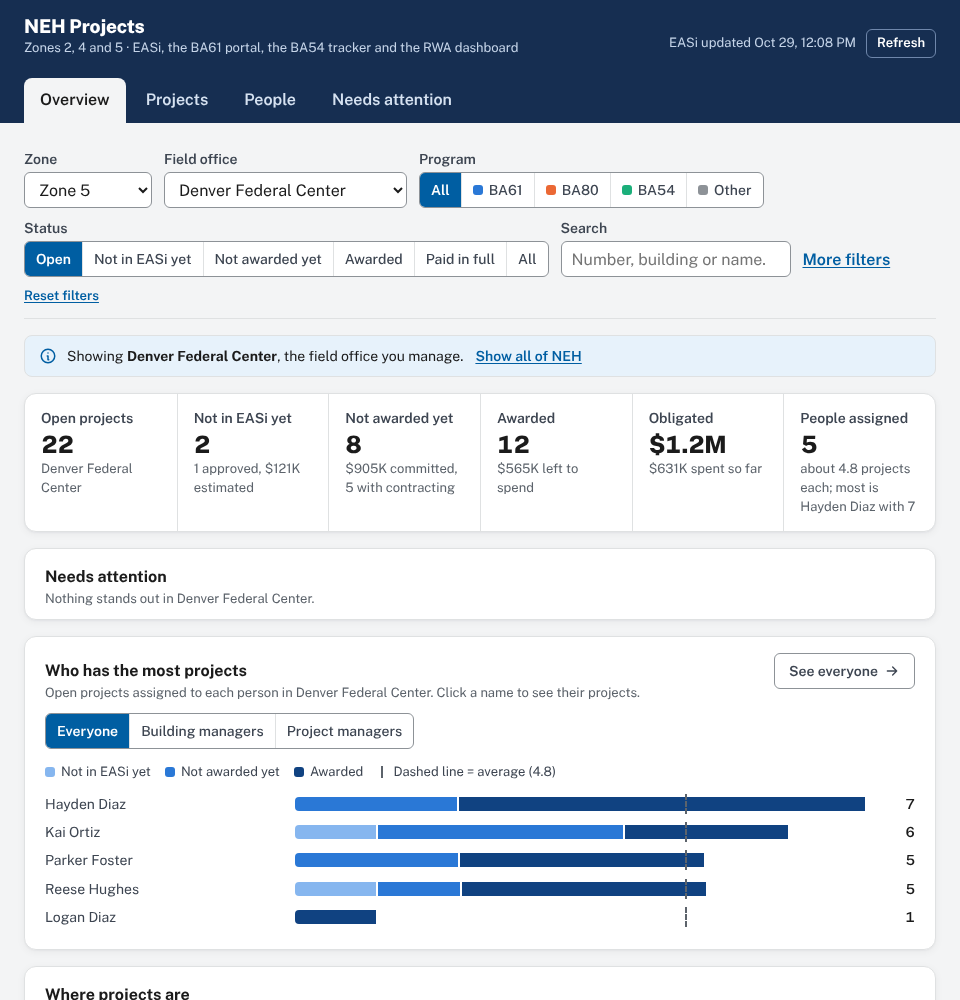
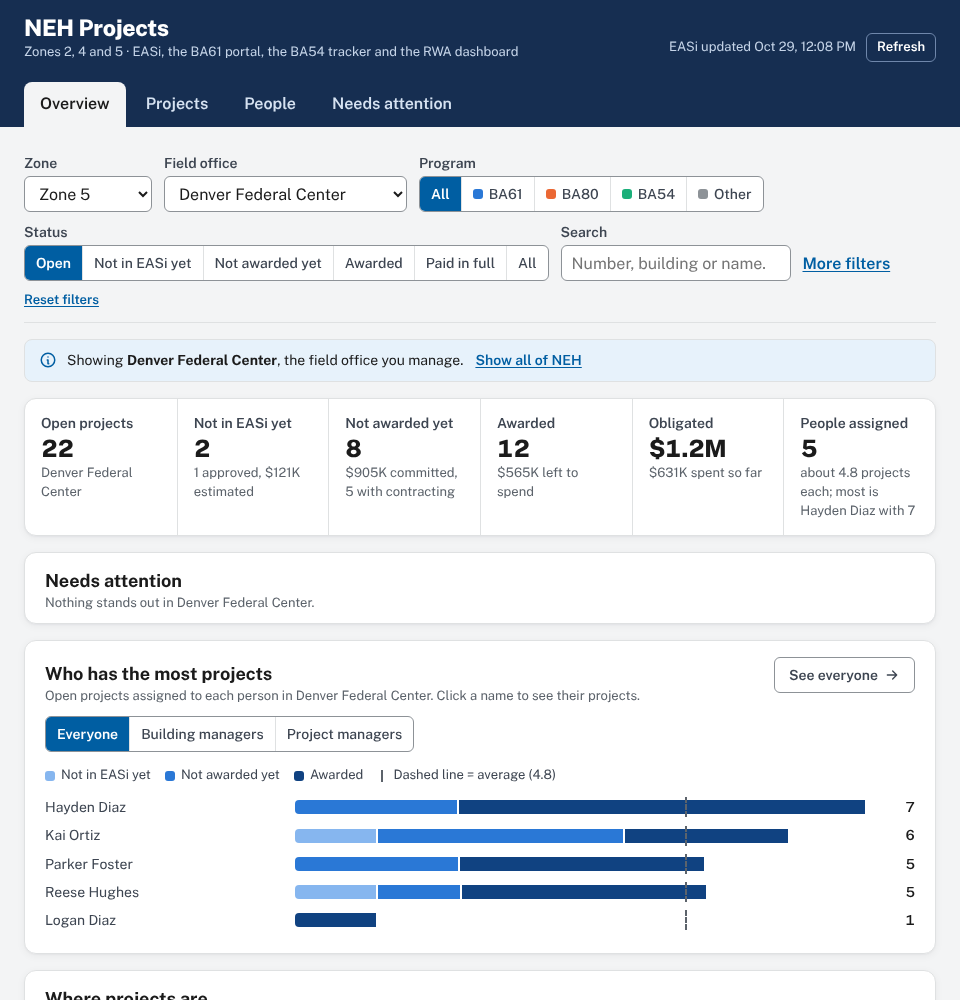
Follow the money after award; design audit and polish
Spending after award (no Kahua)
- The history now records each awarded PR's spent amount and the day it
  last changed. The Projects table shows % spent, the panel shows when
  spending last moved, and Needs attention lists awarded projects with
  no new payment in 90+ days (stalled, or done without closeout).

Design audit (Impeccable plug-in) and fixes
- Audit: 15/20, no P0. Fixed: the project panel now keeps keyboard
  focus (the page behind is inert, Tab cycles, Escape closes); the views
  are a navigation landmark with aria-current instead of a half-built
  tab widget; heading sizes step clearly (14/16/18/23); the current
  office row is a tint, not a colored edge; selection, checkbox, link
  underline and scrollbar colors follow the palette; header colors are
  tokens; reduced-motion respected; headings and paragraphs wrap evenly.
- The detector reports no findings on desktop or phone afterwards; text
  contrast passes in light and dark.

Claude-Session: https://claude.ai/code/session_01RMxVjbo95iv27hvqChW3bh

diff --git a/webapp/Styles.html b/webapp/Styles.html
@@ -23,6 +23,8 @@
   --primary-soft: #e7f2fb;
   --navy: #162e51;
   --navy-2: #1f3d68;
+  --on-navy: #d6e2f1;      /* text on the navy header */
+  --on-navy-2: #c5d4e8;
   --warning: #7a5600;
   --warning-soft: #fdf2d0;
   --success: #00703c;
@@ -72,7 +74,12 @@
 
 * { box-sizing: border-box; }
 html, body { margin: 0; padding: 0; }
-body { font-family: var(--font); font-size: 16px; line-height: 1.45; color: var(--ink); background: var(--page); -webkit-font-smoothing: antialiased; }
+body { font-family: var(--font); font-size: 16px; line-height: 1.45; color: var(--ink); background: var(--page); -webkit-font-smoothing: antialiased; accent-color: var(--primary); }
+::selection { background: var(--primary-soft); color: var(--ink); }
+a { text-underline-offset: 2px; }
+h1, h2, h3 { text-wrap: balance; }
+p, li, dd { text-wrap: pretty; }
+.table-wrap { scrollbar-color: var(--line-strong) transparent; }
 a { color: var(--primary); }
 a:hover { color: var(--primary-hover); }
 button, input, select { font: inherit; color: inherit; }
@@ -93,6 +100,10 @@ input[type="checkbox"] { accent-color: var(--primary); width: 16px; height: 16px
 .boot, .state { display: flex; align-items: center; justify-content: center; gap: 12px; min-height: 60vh; color: var(--ink-3); flex-direction: column; text-align: center; padding: 24px; }
 .state h2 { color: var(--ink); margin: 0; font-size: 20px; }
 .state p { max-width: 560px; margin: 0; }
+@media (prefers-reduced-motion: reduce) {
+  .spinner { animation-duration: 2.4s; }
+  tr.group-row .caret, .attention-item, .hbar { transition: none; }
+}
 .spinner { width: 22px; height: 22px; border-radius: 50%; border: 3px solid var(--line); border-top-color: var(--primary); animation: spin .8s linear infinite; display: inline-block; }
 @keyframes spin { to { transform: rotate(360deg); } }
 
@@ -100,13 +111,13 @@ input[type="checkbox"] { accent-color: var(--primary); width: 16px; height: 16px
 .topbar { background: var(--navy); color: #fff; }
 .topbar-inner { max-width: 1480px; margin: 0 auto; padding: 14px 24px 0; display: flex; flex-wrap: wrap; align-items: flex-end; gap: 8px 24px; }
 .brand { display: flex; flex-direction: column; padding-bottom: 12px; margin-right: auto; }
-.brand-title { font-size: 19px; font-weight: 800; letter-spacing: -.01em; margin: 0; line-height: 1.3; }
-.brand-sub { font-size: 13px; color: #c5d4e8; }
+.brand-title { font-size: 23px; font-weight: 800; letter-spacing: -.015em; margin: 0; line-height: 1.25; }
+.brand-sub { font-size: 13px; color: var(--on-navy-2); }
 .tabs { display: flex; gap: 4px; }
-.tab { background: transparent; border: 0; color: #d6e2f1; padding: 10px 16px 12px; font-weight: 600; cursor: pointer; border-radius: 8px 8px 0 0; }
+.tab { background: transparent; border: 0; color: var(--on-navy); padding: 10px 16px 12px; font-weight: 600; cursor: pointer; border-radius: 8px 8px 0 0; }
 .tab:hover { color: #fff; background: var(--navy-2); }
-.tab[aria-selected="true"] { background: var(--page); color: var(--ink); }
-.freshness { display: flex; align-items: center; gap: 10px; font-size: 13px; color: #c5d4e8; padding-bottom: 12px; }
+.tab[aria-current="page"] { background: var(--page); color: var(--ink); }
+.freshness { display: flex; align-items: center; gap: 10px; font-size: 13px; color: var(--on-navy-2); padding-bottom: 12px; }
 .btn-on-dark { background: transparent; border: 1px solid #6f87ab; color: #fff; border-radius: 6px; padding: 4px 10px; cursor: pointer; font-size: 13px; font-weight: 600; }
 .btn-on-dark:hover { background: var(--navy-2); }
 .btn-on-dark[disabled] { opacity: .6; cursor: default; }
@@ -115,7 +126,7 @@ input[type="checkbox"] { accent-color: var(--primary); width: 16px; height: 16px
 main { max-width: 1480px; margin: 0 auto; padding: 16px 24px 48px; }
 .card { background: var(--surface); border: 1px solid var(--line); border-radius: var(--radius); box-shadow: var(--shadow); }
 .card-pad { padding: 18px 20px; }
-.card h2 { font-size: 16px; margin: 0; }
+.card h2 { font-size: 18px; margin: 0; line-height: 1.3; }
 .card-head { display: flex; align-items: baseline; justify-content: space-between; gap: 12px; flex-wrap: wrap; padding: 16px 20px 10px; }
 .card-head p { margin: 2px 0 0; color: var(--ink-3); font-size: 13px; }
 .grid { display: grid; gap: 16px; }
@@ -232,7 +243,7 @@ tr.group-row .caret { display: inline-flex; width: 20px; transition: transform .
 tr.group-row.collapsed .caret { transform: rotate(-90deg); }
 tr.total-row td { font-weight: 700; background: var(--surface-2); border-bottom: 0; }
 tbody tr.current td, tbody tr.current:hover td { background: var(--primary-soft); }
-tbody tr.current td:first-child { box-shadow: inset 3px 0 0 var(--primary); }
+tbody tr.current td:first-child strong { color: var(--primary-hover); }
 td.title-cell { min-width: 230px; max-width: 300px; }
 td .sub { font-size: 12.5px; color: var(--ink-3); margin-top: 2px; }
 td.title-cell .sub { display: flex; flex-wrap: wrap; gap: 2px 8px; align-items: center; }
@@ -261,7 +272,7 @@ td.title-cell .t { display: -webkit-box; -webkit-line-clamp: 2; -webkit-box-orie
 .drawer-backdrop { position: fixed; inset: 0; background: rgba(10, 16, 28, .45); z-index: 50; display: flex; justify-content: flex-end; }
 .drawer { width: min(640px, 100%); height: 100%; background: var(--surface); box-shadow: var(--shadow-lg); overflow-y: auto; padding: 20px 24px 40px; }
 .drawer-head { display: flex; justify-content: space-between; gap: 12px; align-items: flex-start; }
-.drawer h2 { margin: 4px 0 6px; font-size: 19px; line-height: 1.3; }
+.drawer h2 { margin: 4px 0 6px; font-size: 20px; line-height: 1.3; }
 .close-btn { border: 1px solid var(--line-strong); background: var(--surface); width: 36px; height: 36px; border-radius: 8px; cursor: pointer; flex: none; display: inline-flex; align-items: center; justify-content: center; color: var(--ink-2); }
 .close-btn:hover { color: var(--ink); border-color: var(--field-border); }
 .pr-link .icon { width: 14px; height: 14px; margin-left: 4px; }
@@ -292,13 +303,13 @@ tr.group-more td { padding: 6px 9px 12px; }
 .attention-item { display: flex; align-items: baseline; gap: 10px; width: 100%; text-align: left; border: 0; background: transparent; font: inherit; color: var(--ink); padding: 6px 8px; margin-left: -8px; border-radius: 6px; cursor: pointer; }
 .attention-item:hover { background: var(--surface-2); color: var(--primary); }
 .attention-item .count { min-width: 44px; text-align: right; font-weight: 700; font-variant-numeric: tabular-nums; color: var(--warning); }
-.group-heading { font-size: 16px; margin: 8px 0 -4px; }
+.group-heading { font-size: 18px; margin: 12px 0 -6px; }
 .attention-check h3 { font-size: 16px; margin: 0; display: flex; align-items: center; gap: 8px; }
 .count-pill { font-size: 12px; font-weight: 700; background: var(--warning-soft); color: var(--warning); border-radius: 999px; padding: 1px 8px; }
 .attention-note { font-size: 13px; color: var(--warning); font-weight: 600; margin-top: 2px; }
 .footnote { font-size: 13px; color: var(--ink-3); margin-top: 20px; line-height: 1.6; }
 .sources { margin-top: 24px; padding-top: 16px; border-top: 1px solid var(--line); }
-.sources h2 { font-size: 15px; margin: 0 0 8px; }
+.sources h2 { font-size: 18px; margin: 0 0 10px; }
 .sources-table { font-size: 14px; background: var(--surface); border: 1px solid var(--line); border-radius: var(--radius-sm); }
 .sources-table th { background: var(--surface-2); }
 .source-error { color: var(--warning); font-weight: 600; margin-top: 2px; }

diff --git a/webapp/JsApp.html b/webapp/JsApp.html
@@ -36,6 +36,7 @@ var PROJECT_CSV = [
   ['Building', function (p) { return p.buildings.join(' '); }], ['Building names', function (p) { return p.buildingNames.join('; '); }],
   ['Assigned to', function (p) { return peopleNames(p.lead); }], ['Role', function (p) { return p.lead.map(function (e) { return teamLabel(teamOf(e), true); }).join('; '); }], ['Org code', function (p) { return p.lead.map(orgOf).join('; '); }], ['COR', function (p) { return peopleNames(p.cor); }], ['Submitter', function (p) { return peopleNames(p.requestor); }],
   ['Planned in', function (p) { return p.sourceLabel || 'EASi'; }], ['Estimated cost (not in EASi yet)', function (p) { return isPlanned(p) ? p.estimate : ''; }],
+  ['% spent', function (p) { var x = spentPct(p); return x === null ? '' : x; }], ['Spending last changed', function (p) { var a = paymentAge(p); return a ? (a.known ? '' : 'by ') + a.since : ''; }],
   ['Committed', function (p) { return p.committed; }], ['Obligated', function (p) { return p.obligated; }], ['Expended', function (p) { return p.expended; }], ['Left to spend', function (p) { return p.remaining; }],
   ['PR fiscal year', function (p) { return p.fy || ''; }], ['Awarded', function (p) { return p.executed; }], ['Vendor', function (p) { return p.vendor; }], ['Award number', function (p) { return p.awardNumber; }],
   ['Acquisition status', function (p) { return p.acquisitionStatus; }], ['PR status', function (p) { return p.prStatus; }],
@@ -233,8 +234,9 @@ function topBar() {
   var d = S.data;
   var refreshBtn = h('button', { class: 'btn-on-dark', type: 'button', title: 'Read EASi and the other source sheets again (takes about a minute)' }, 'Refresh');
   refreshBtn.addEventListener('click', function () { refreshBtn.disabled = true; refreshBtn.textContent = 'Refreshing…'; load(true); });
-  var tabs = h('div', { class: 'tabs', role: 'tablist', 'aria-label': 'Views' }, VIEWS.map(function (v) {
-    return h('button', { class: 'tab', role: 'tab', type: 'button', 'aria-selected': String(S.view === v.key), onClick: function () { go(v.key); } }, v.label);
+  // The views are pages of one site, so they are navigation (aria-current), not an ARIA tab widget.
+  var tabs = h('nav', { class: 'tabs', 'aria-label': 'Views' }, VIEWS.map(function (v) {
+    return h('button', { class: 'tab', type: 'button', 'aria-current': S.view === v.key ? 'page' : null, onClick: function () { go(v.key); } }, v.label);
   }));
   return h('header', { class: 'topbar' }, h('div', { class: 'topbar-inner' },
     h('div', { class: 'brand' },
@@ -800,7 +802,11 @@ function projectRow(p, cols) {
       return h('td', { class: 'num', title: fmtMoney(p.committed) + ' committed; ' + fmtMoney(plan.planned) + ' planned in ' + andList(uniqueLabels(p.plans)) + (plan.ratio !== null ? ' (' + plan.label + ')' : '') },
         fmtMoneyShort(p.committed), h('div', { class: 'sub' + (off ? ' off-plan' : '') }, plan.key === 'noamount' ? 'in a plan' : 'plan ' + fmtMoneyShort(plan.planned) + (off ? ' (' + plan.label.replace(' vs. plan', '') + ')' : '')));
     },
-    remaining: function () { return h('td', { class: 'num', title: p.remaining ? fmtMoney(p.remaining) : null }, p.remaining ? fmtMoneyShort(p.remaining) : '–'); },
+    remaining: function () {
+      var pct = spentPct(p);
+      return h('td', { class: 'num', title: p.remaining ? fmtMoney(p.remaining) + ' of ' + fmtMoney(p.obligated) + ' obligated is left' : null },
+        p.remaining ? fmtMoneyShort(p.remaining) : '–', pct !== null && p.stage === 'awarded' ? h('div', { class: 'sub' }, pct + '% spent') : null);
+    },
     executed: function () {
       if (!p.vendor && !p.executed) return h('td', { class: 'muted' }, '–');
       return h('td', { class: 'award-cell' }, h('div', { class: 't1', title: p.vendor || null }, p.vendor || 'Vendor not listed'), p.executed ? h('div', { class: 'sub' }, fmtDate(p.executed)) : null);
@@ -947,6 +953,7 @@ function openDrawer(p) {
       itemIf('Award status', p.awardStatus),
       p.reviewers.length ? item('Waiting on', people(p.reviewers)) : null,
       itemIf('Award number', p.awardNumber),
+      spentPct(p) !== null ? item('Spent so far', spentPct(p) + '% of ' + fmtMoney(p.obligated) + (paymentAge(p) ? '\n' + (p.expended > 0 ? (paymentAge(p).known ? 'Last new payment seen ' : 'No new payment since at least ') : 'Nothing paid since the award, ') + fmtDate(paymentAge(p).since) : '')) : null,
       itemIf('Awarded', fmtDate(p.executed)),
       itemIf('Vendor', p.vendor),
       itemIf('Award type', p.awardType),
@@ -980,12 +987,23 @@ function openDrawer(p) {
   drawer.querySelectorAll('dd').forEach(function (dd) { dd.style.whiteSpace = 'pre-line'; });
   var backdrop = h('div', { class: 'drawer-backdrop' }, drawer);
   var opener = document.activeElement;
-  var shut = function () { backdrop.remove(); document.removeEventListener('keydown', onKey); if (opener && opener.focus) opener.focus(); };
-  var onKey = function (e) { if (e.key === 'Escape') shut(); };
+  // A modal panel: the page behind it is inert, and Tab cycles inside the panel.
+  var app = document.getElementById('app');
+  var shut = function () { backdrop.remove(); app.inert = false; document.removeEventListener('keydown', onKey); if (opener && opener.focus) opener.focus(); };
+  var onKey = function (e) {
+    if (e.key === 'Escape') { shut(); return; }
+    if (e.key !== 'Tab') return;
+    var stops = [].slice.call(drawer.querySelectorAll('a[href], button:not([disabled]), [tabindex="0"]'));
+    if (!stops.length) return;
+    var first = stops[0], last = stops[stops.length - 1];
+    if (e.shiftKey && document.activeElement === first) { e.preventDefault(); last.focus(); }
+    else if (!e.shiftKey && document.activeElement === last) { e.preventDefault(); first.focus(); }
+  };
   close.addEventListener('click', shut);
   backdrop.addEventListener('click', function (e) { if (e.target === backdrop) shut(); });
   document.addEventListener('keydown', onKey);
   document.body.appendChild(backdrop);
+  app.inert = true;
   close.focus();
 }
 

diff --git a/webapp/JsAttention.html b/webapp/JsAttention.html
@@ -49,6 +49,18 @@ var ATTENTION_CHECKS = [
     sortKey: function (p) { return p.executed; }
   },
   {
+    key: 'stalled', group: 'time', title: 'Awarded, no new payments in 90+ days',
+    why: 'Pegasys shows no new spending for three months. The work may have stalled, or finished without being closed out. (Projects awarded over a year ago with nothing paid are listed under Money.)',
+    test: function (p) {
+      if (p.stage !== 'awarded') return '';
+      var a = paymentAge(p);
+      if (!a || a.days < 90) return '';
+      if (p.expended <= 0) return a.days >= 365 ? '' : 'Awarded ' + fmtDate(a.since) + ', nothing paid yet (' + plural(a.days, 'day') + ')';
+      return (a.known ? 'No new payment since ' + fmtDate(a.since) + ' (' + plural(a.days, 'day') + ')' : 'No new payment for ' + a.days + '+ days') + ', ' + spentPct(p) + '% spent';
+    },
+    sortKey: function (p) { return p.spentSince; }
+  },
+  {
     key: 'pastTarget', group: 'time', title: 'Past its planned date, still no PR',
     why: 'The plan said this would be committed (BA61 portal) or routed (BA54 tracker) by now, and EASi has no PR for it.',
     test: function (p) { return isPlanned(p) && p.dueBy && p.dueBy < snapshotDay() ? p.dueWhat + ' was ' + fmtDate(p.dueBy) : ''; },

diff --git a/dev/test.js b/dev/test.js
@@ -456,6 +456,17 @@ test('stage history: days in stage, changes between refreshes, plans before thei
   later.prs.push(carrier);
   ctx.updateHistory_(later, next, '2099-01-17');
   assert.ok(carrier.plans[0].history && carrier.plans[0].history[0][0] === plan.stage);
+  // Spending after award: nothing paid runs from the award; a new payment restarts the clock.
+  const unpaid = d.prs.filter((p) => !p.source && p.stage === 'awarded' && p.expended === 0 && p.executed)[0];
+  if (unpaid) assert.ok(unpaid.spentSince === unpaid.executed && unpaid.spentKnown);
+  const paying = later.prs.filter((p) => !p.source && p.stage === 'awarded' && p.expended > 0)[0];
+  assert.ok(paying.spentSince && !paying.spentKnown, 'first day: spending at least since today');
+  paying.expended += 1000;
+  ctx.updateHistory_(later, next, '2099-02-01');
+  assert.strictEqual(paying.spentSince, '2099-02-01');
+  assert.strictEqual(paying.spentKnown, true);
+  ctx.updateHistory_(later, next, '2099-03-01');
+  assert.strictEqual(paying.spentSince, '2099-02-01', 'no change, the date stays');
   // Long-gone projects are forgotten.
   const gone = ctx.updateHistory_({ prs: [] }, next, '2101-06-01');
   assert.strictEqual(Object.keys(gone.items).length, 0);

diff --git a/webapp/JsCore.html b/webapp/JsCore.html
@@ -502,6 +502,18 @@ function stageAge(p) {
   return { days: daysBetween(p.since), known: !!p.sinceKnown, since: p.since };
 }
 
+/** Share of the obligation Pegasys shows spent (0-100), or null before award. */
+function spentPct(p) {
+  if (isPlanned(p) || !(p.stage === 'awarded' || p.stage === 'expended') || p.obligated <= 0) return null;
+  return Math.min(100, Math.round(p.expended / p.obligated * 100));
+}
+
+/** Days since an awarded PR's spending last changed (since its award when nothing is spent): { days, known, since } or null. */
+function paymentAge(p) {
+  if (!p.spentSince) return null;
+  return { days: daysBetween(p.spentSince), known: !!p.spentKnown, since: p.spentSince };
+}
+
 /** "27 days" (known) or "40+ days" (in this stage at least since tracking began); '' when it says nothing. */
 function stageAgeText(p) {
   var a = stageAge(p);

diff --git a/README.md b/README.md
@@ -28,7 +28,7 @@ Four tabs, all following the same filters.
 
 **People**: everyone ranked by how many projects they have, counted by person assigned (default), the building's building manager, contracting officer or contract specialist; with not in EASi / not awarded / awarded, BA61/80/54 counts, dollars and their oldest open fiscal year. Split by field office if you like. Click a person to see their projects.
 
-**Needs attention**: checks over the data, grouped as *Money* (RWA funds closing within 120 days with no award; committed more than 25% over the plan; awarded over a year ago with nothing paid), *Taking long* (past the plan's own commitment month (BA61 portal) or PR routing month (BA54 tracker) with no PR; approved 60+ days ago with no PR; 60+ days as a draft PR or 30+ days in review or waiting for a contract specialist) and *Fix in the source* (cancelled or denied in the portal but has a PR; nobody assigned; a person named with no email found; a BA54 row with no PCN; a PR with no building in EASi). Each says why it matters, lists the most pressing first, and opens all of them in Projects.
+**Needs attention**: checks over the data, grouped as *Money* (RWA funds closing within 120 days with no award; committed more than 25% over the plan; awarded over a year ago with nothing paid), *Taking long* (awarded with no new payment in 90+ days; past the plan's own commitment month (BA61 portal) or PR routing month (BA54 tracker) with no PR; approved 60+ days ago with no PR; 60+ days as a draft PR or 30+ days in review or waiting for a contract specialist) and *Fix in the source* (cancelled or denied in the portal but has a PR; nobody assigned; a person named with no email found; a BA54 row with no PCN; a PR with no building in EASi). Each says why it matters, lists the most pressing first, and opens all of them in Projects.
 
 ![Needs attention for one field office (demo data)](docs/img/attention.png)
 
@@ -45,6 +45,7 @@ Four tabs, all following the same filters.
 | Not in EASi yet | A project that is planned or approved but that no PR in EASi carries yet, from two sheets. **BA61 portal:** Planning, Pending Approval, Approved or Emergency NTP projects, when no PR has the portal number (RM0024-092426) in its title or comments and the EQ number is not a PR in the report (the portal's own EASi sync rule). **BA54 tracker:** Active and Pending projects in the Current Program tab, when no PR from the project's planned fiscal year or the year before lists its PCN or ASID among its project codes (codes are reused for later phases, so an old PR on the same code doesn't count); change orders are left out, since they are money on an award that already exists. **RWA dashboard** (RWAs are BA80): RWAs and work requests on NEH buildings that no PR lists, in FE_RWA_List or written in its title or comments ("RWA #N3858013"), and that have nothing committed or obligated (one with money but no PR is funded another way, such as a lease or a purchase card, and is only counted); work requests being estimated are planning, ones awaiting signature are waiting for approval, accepted RWAs are approved with no PR yet; substantially completed ones are left out, and severable RWAs count as service contracts. A project leaves this group, and shows its EASi status instead, the morning its PR appears. Each one counts as one open project at its building's field office, for its COR (BA61: the portal's COR, or the requester until there is one; BA54: the tracker's project manager, or the one marked "(COR)" when two are named; RWA: the GSA PM in RETA; Kahua is not used, since its people and dates are often out of date). Its money is an estimate (the portal's budgeted amount, the tracker's total cost, the RWA's authorized amount), shown as "estimated" and never added to EASi's committed, obligated or left-to-spend totals. Both sheets give people as names; the tracker matches a name to the person's email when exactly one person on the PRs or in the building directory fits it (full name, a common nickname such as Bobby for Robert, or first initial and last name), and otherwise shows the name as written. A cell naming two people ("A / B", "A & B") counts both, and notes like "(design)" or "- PMAC" are ignored. Names it can't work out (a name change, say) go in the `NAME_EMAILS` Script property. Untick **Include planned projects not in EASi yet** under More filters to count only what is in EASi. |
 | Plan vs. EASi | A PR that carries a BA61 portal project, a BA54 tracker project or an RWA (with its customer agency) shows it under **Planned as** in its detail panel, with the planned amount next to what EASi has committed, and the Projects table shows "plan $45K" under the committed amount (highlighted when it is more than 25% over or under). **Group by › Plan vs. EASi** sorts every project into: planned and not in EASi yet; within 25% of the plan; more than 25% over or under; a plan but nothing committed yet; also funded from other programs (a BA54 plan on a PR that is also BA80, say, so the amounts aren't comparable); a plan spread over several PRs (one RWA funding three PRs, say); a plan with no amount; no plan on file. A BA54 plan only attaches to PRs from its planned fiscal year or the year before. |
 | Days in this stage | None of the sources keep a history, so the tracker records each project's stage at every refresh, in a History tab of its saved-snapshot sheet. When a project is first seen it takes a real date if its source has one (the award date, the portal's decision or submission date, the RWA's acceptance or work request date); otherwise "40+ days" means it has been there at least since the tracker began recording. A change seen between two refreshes is dated that day. The project panel's timeline puts the plan's stages before the PR's own. |
+| Spending after award | Kahua isn't used (its dates are too often stale), so progress after award comes from the money: the tracker records each awarded PR's spent amount (Pegasys, through the EASi report) at every refresh and the day it last changed. The Projects table shows % spent, the panel shows when spending last moved, and Needs attention lists awarded projects with no new payment in 90+ days: stalled, or finished without closeout. Until a PR has been watched for 90 days only ones with nothing paid since their award can show there. |
 | Needs attention | Each check uses only the data on the page and follows the filters (not the status buttons: each check picks the stages it is about). The thresholds are in `webapp/JsAttention.html`. |
 | Names | People are shown as the GSA directory names them ("Robert J. Green"), from the same weekly directory sweep that finds org codes; until a sweep has run, the name comes from the email. |
 | Where this comes from | The bottom of every view lists each source sheet with a link, what it adds, and how fresh it is: when EASi generated its report, the directory's "Last Updated" date, the portal's latest project change, the BA54 tracker's "Obligation Data As of" date, and the RWA dashboard's "Data as of" date. |
@@ -61,6 +62,10 @@ Four tabs, all following the same filters.
 | Building manager | The ServiceNow primary POC for the PR's buildings, from the OFM Building Assignments sheet. |
 
 On the October 29, 2026 report, 3,609 of the 10,294 PRs nationwide are on NEH buildings: 1,480 in Zone 2, 1,286 in Zone 4, 874 in Zone 5 (a PR can touch two zones). 480 are service contracts. Of the projects, 2,373 are open: 925 in Zone 2, 879 in Zone 4, 589 in Zone 5.
+
+## Accessibility and design
+
+Built to WCAG 2.2 AA: every text color passes contrast in light and dark, chart colors were checked with a palette validator (ordinal stage ramp, program colors safe for color-blind readers), every control works from the keyboard (table rows open with Enter, the project panel keeps focus until Escape), views are a navigation landmark, and motion respects the reduced-motion setting. The design was audited with the Impeccable design plug-in; its detector reports no findings on desktop or phone.
 
 ## How it works
 
